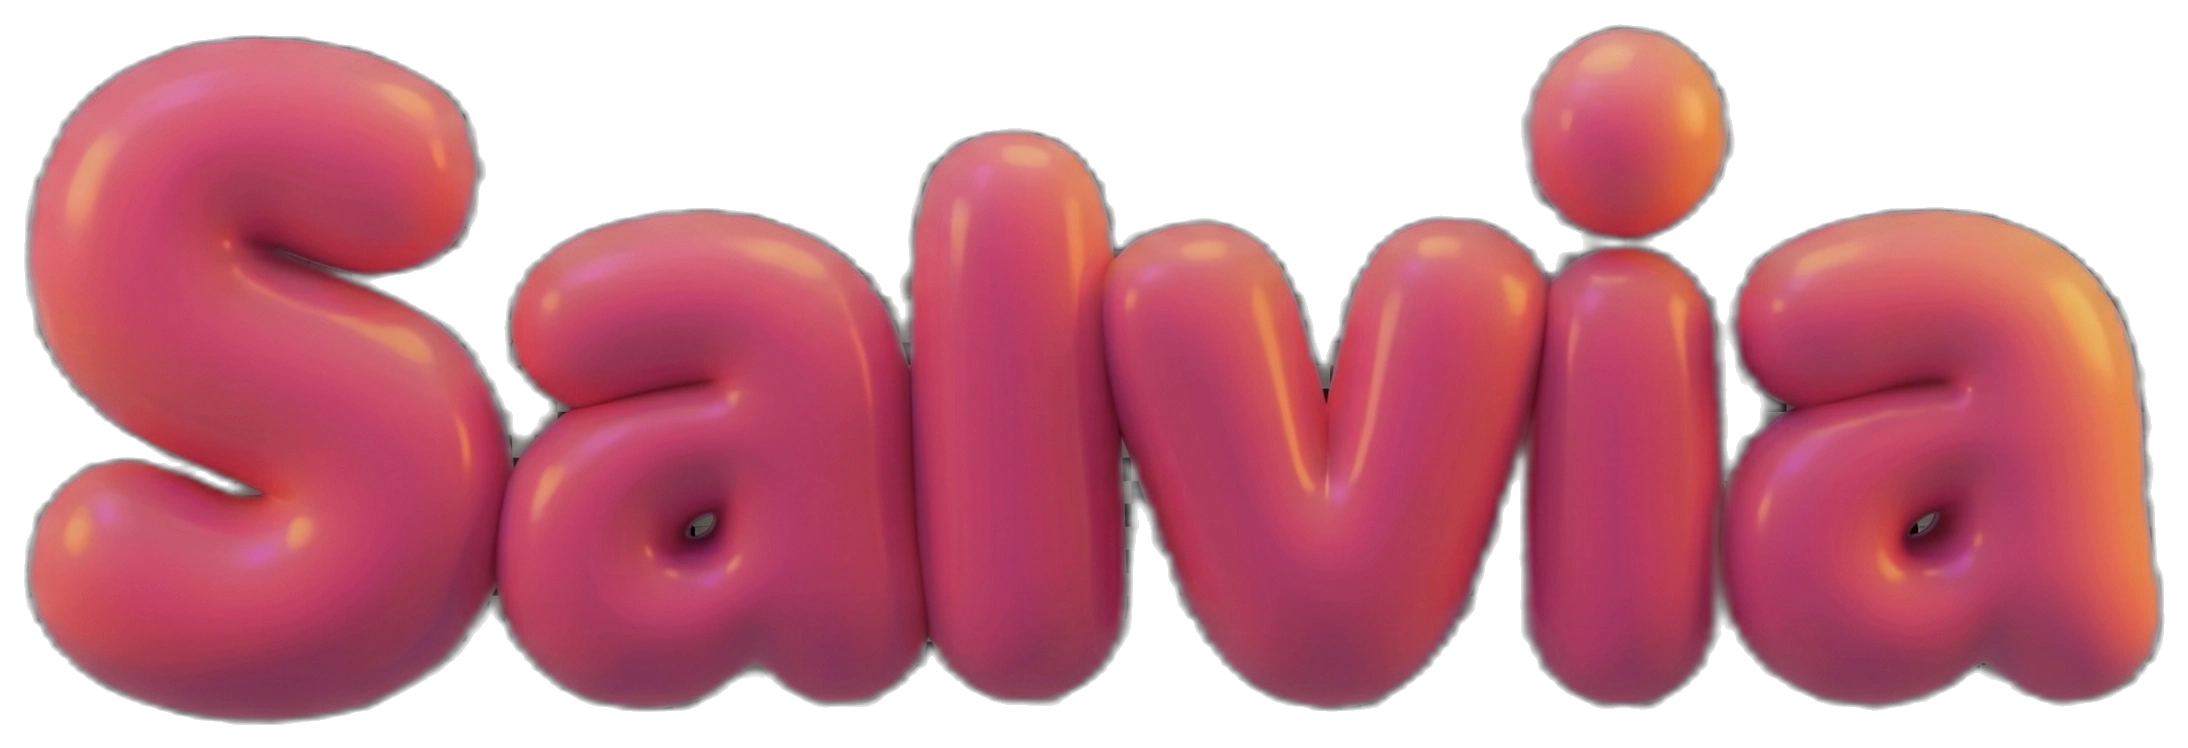
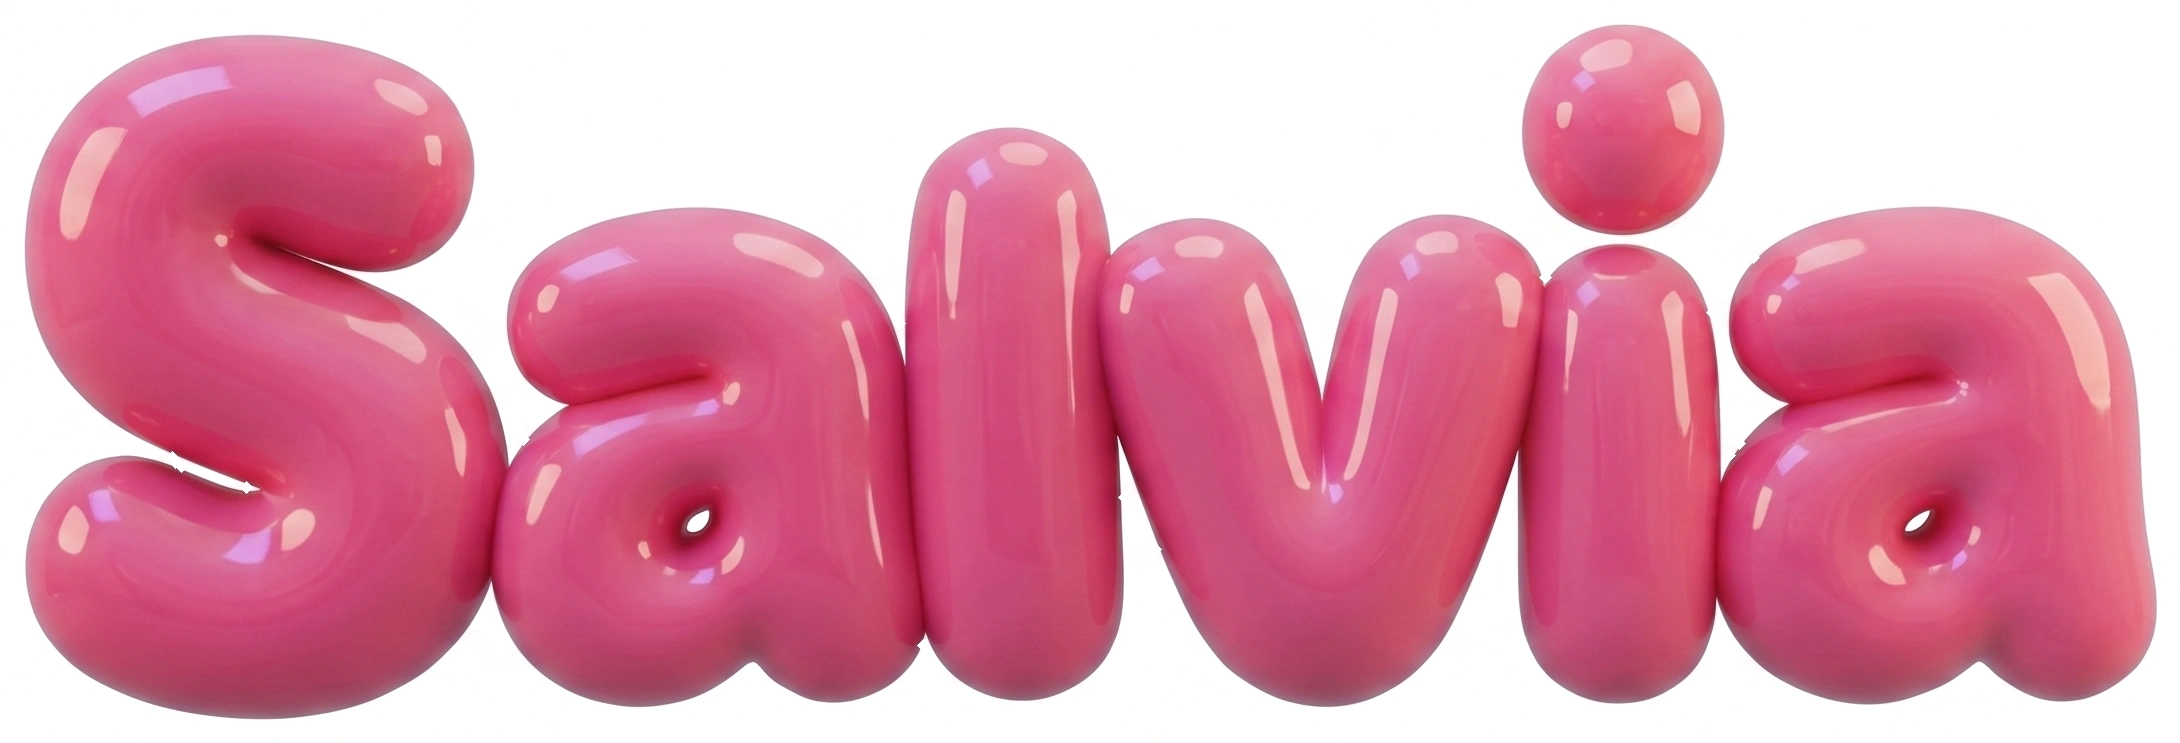
fix(footer): glossy wordmark recut — background white-clipped to pure 255 (was 253-grey slab), sized down to 480px for balance

diff --git a/src/styles/grass.css b/src/styles/grass.css
@@ -870,12 +870,13 @@ html.js .g-rv.g-d4 { transition-delay: .24s; }
   border-top: 1px solid var(--g-line-soft); margin-top: 48px;
 }
 .g-mega-word img {
-  width: min(760px, 78vw); height: auto; display: block; margin: 0 auto;
+  width: min(480px, 62vw); height: auto; display: block; margin: 0 auto;
 }
 .g-mega-line {
-  font-family: 'Baloo Chettan 2', var(--g-font);
-  font-size: clamp(15px, 1.9vw, 21px); font-weight: 700;
-  color: var(--g-ink-soft); margin-top: 4px;
+  font-family: var(--g-font);
+  font-size: clamp(12px, 1.3vw, 14.5px); font-weight: 600;
+  letter-spacing: 0.02em;
+  color: var(--g-ink-faint); margin-top: 14px;
 }
 .g-mega-corp {
   position: absolute; right: 22px; bottom: 14px;
